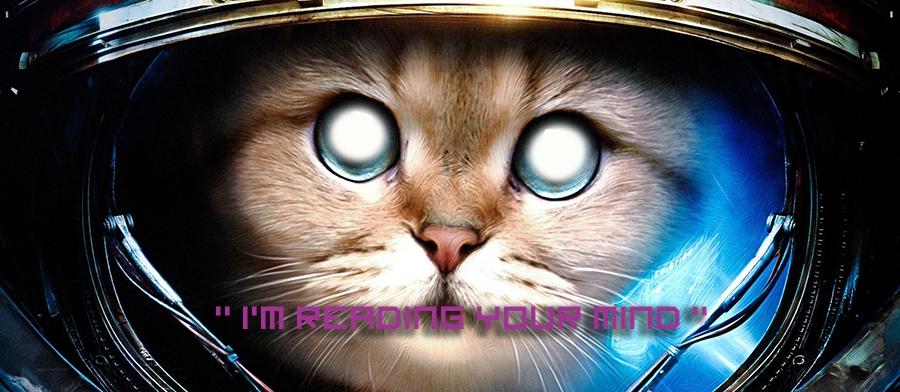
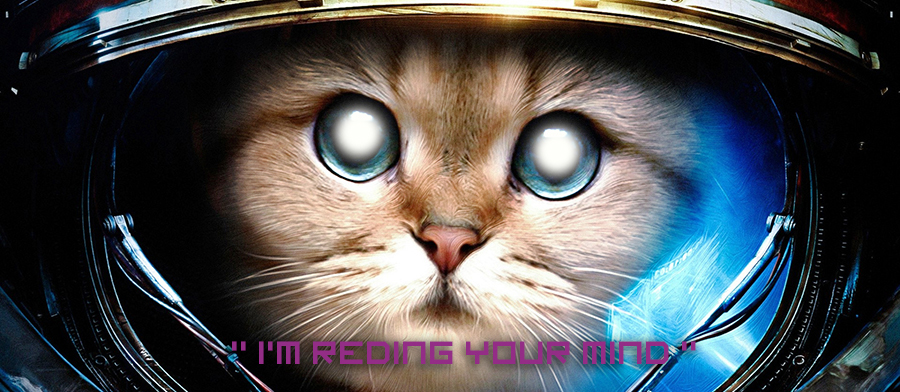
lien revision img header

Changed region(s): [[0.2489, 0.7653, 0.8089, 0.949], [0.56, 0.3061, 0.6844, 0.4898], [0.3422, 0.2755, 0.4356, 0.4286]]

diff --git a/adaptatif_delire/index.html b/adaptatif_delire/index.html
@@ -40,8 +40,10 @@ Page: index.html
 		</header>
 		<main class="vedette">
 			<article>
-				<img src="images/intro.jpg"  alt="chatIntro" class="principale">
-				<img class="introCache" src="images/intro3.jpg"  alt="chatIntro3">
+				<div class="conteneur-img">
+					<img src="images/intro.jpg"  alt="chatIntro" class="principale">
+					<img class="introCache" src="images/intro3.jpg"  alt="chatIntro3">
+				</div>
 				<p> Cat ipsum dolor sit amet, sun bathe, and brown cats with pink ears so hate dog. Eat all the power cords. Cat not kitten around curl into a furry donut so purr while eating for chew on cable instead of drinking water from the cat bowl, make sure to steal water from the toilet stick butt in face. More napping, more napping all the napping is exhausting give attitude, step on your keyboard while you're gaming and then turn in a circle yet roll on the floor purring your whiskers off the fat cat sat on the mat bat away with paws for sleep <span class="action"><a href="http://www.catipsum.com/" title="page lorem ipsum">continuer à lire</a></span></p>
 			</article>
 			<aside> 

diff --git a/adaptatif_delire/style.css b/adaptatif_delire/style.css
@@ -94,6 +94,10 @@ aside{
 	padding-left:10px;
 }
 
+.conteneur-img{
+	position:relative;
+}
+
 .introCache{
     position:absolute;
     top:0;
